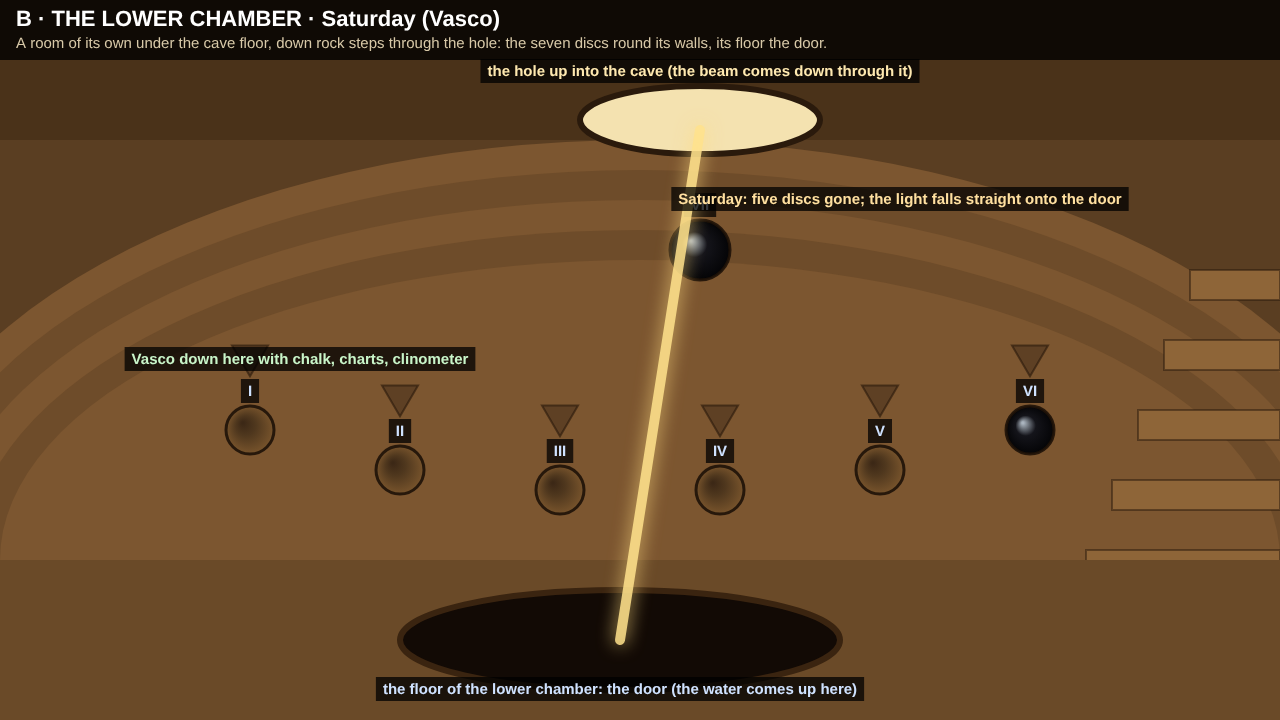
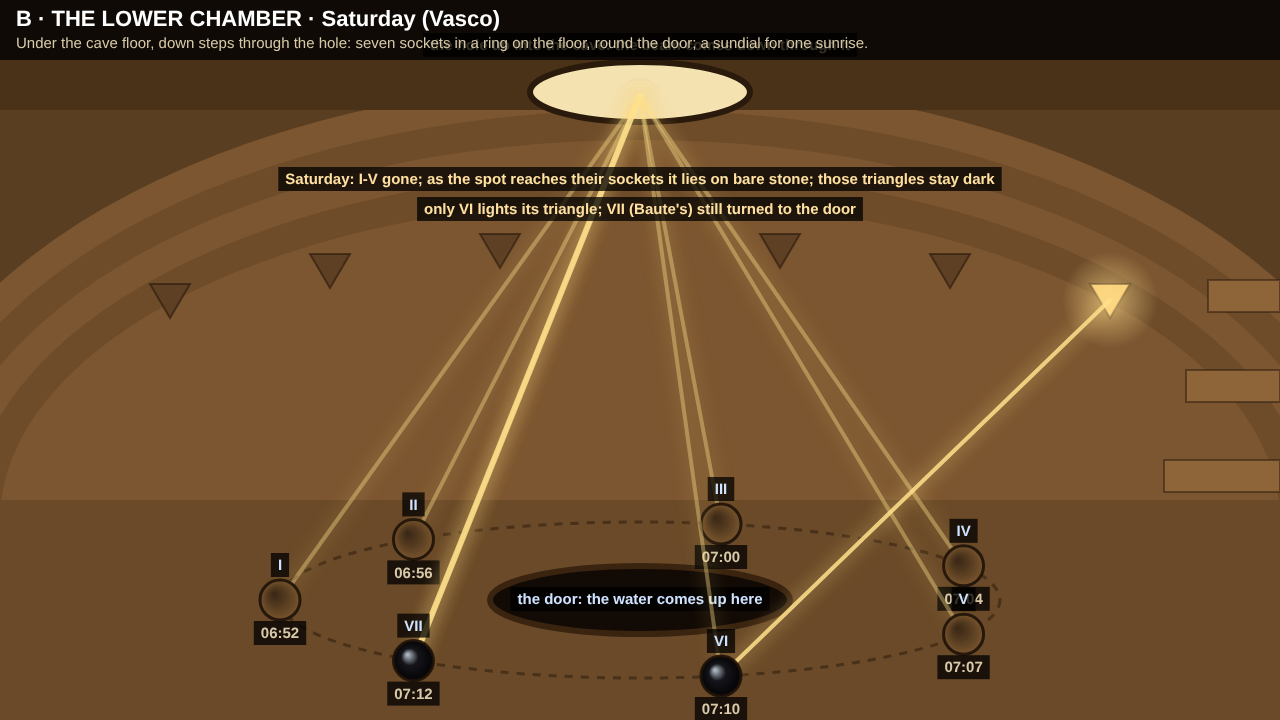
Sequel: Cave 6 layout: the discs in a ring on the lower chamber's floor, each lit in turn (the user's corrections)
Claude-Session: https://claude.ai/code/session_016HTeTMdkPGeAf3vSMzZ5ZE

diff --git a/sequel/art/review/cave6_redesign/mock.html b/sequel/art/review/cave6_redesign/mock.html
@@ -58,42 +58,50 @@ function cave(g) {
   title(g, 'A · CAVE 6 · the room', 'One small opening. No ring of sockets in the roof, no ladder. The discs are in the chamber below the hole.');
 }
 
-// ------------------------------------------------------------ B/C: the lower chamber (the user: "it would probably need an
-// extra room - the lower part of the cave, where the disks are"): a low round room under the cave floor, reached down rock
-// steps through the hole; the seven sockets round its walls at arm's height, each by a small triangle; its floor is the door
-const S = [[250, 430], [400, 470], [560, 490], [720, 490], [880, 470], [1030, 430], [700, 250]];   // I-VI round the wall; VII high, under the hole
+// ------------------------------------------------------------ B/C: the lower chamber (the user: "an extra room - the
+// lower part of the cave, where the disks are"; "the light should be hitting the disks individually, otherwise taking
+// one out breaks the seal completely"; "they should be placed in a circle at the bottom of the hole"): a low round room
+// under the cave floor, down rock steps through the hole. On its floor, round the door, a ring of seven sockets. As the
+// sun rises the spot of light from the hole travels round the ring like a sundial's shadow and meets each disc in turn;
+// I-VI each throw it up onto their own small triangle on the chamber wall; VII, last, up through the hole onto the great
+// triangle. A disc missing: at that moment the light falls on bare stone, and that word of the sentence goes unread.
+const C = [640, 600], RX = 360, RY = 78;
+const ANG = [180, 129, 77, 26, -26, -77, -129];   // I-VII evenly round the ring (degrees, 0 = right, 90 = far side), the light's order
+const S = ANG.map(a => [C[0] + RX * Math.cos(a * Math.PI / 180), C[1] - RY * Math.sin(a * Math.PI / 180)]);
+const TRI = [[170, 300], [330, 270], [500, 250], [780, 250], [950, 270], [1110, 300]];   // the small triangles on the wall
 function lower(g, phase) {
   g.fillStyle = '#5a3e22'; g.fillRect(0, 0, 1280, 720);
-  // the low curved back wall and the ceiling, with the hole up in it (the light comes down through it from the cave above)
-  for (let i = 0; i < 5; i++) { g.fillStyle = i % 2 ? '#6e4c2a' : '#7c5630'; g.beginPath(); g.ellipse(640, 560, 760 - i * 30, 420 - i * 30, 0, Math.PI, 0); g.fill(); }
-  poly(g, [[0, 0], [1280, 0], [1280, 140], [0, 140]], '#4a3219');
-  g.save(); g.fillStyle = '#f4e2b0'; g.beginPath(); g.ellipse(700, 120, 120, 34, 0, 0, 7); g.fill(); g.strokeStyle = '#2a1a0c'; g.lineWidth = 6; g.stroke(); g.restore();
-  label(g, 700, 72, 'the hole up into the cave (the beam comes down through it)');
-  // the rock steps up to the hole, on the right (no ladder)
-  for (let i = 0; i < 6; i++) poly(g, [[1060 + i * 26, 620 - i * 70], [1280, 620 - i * 70], [1280, 650 - i * 70], [1060 + i * 26, 650 - i * 70]], '#8e6538', 'rgba(40,24,10,0.5)', 2);
-  label(g, 1170, 660, 'steps cut in the rock, up to the hole', { fg: '#c9f5c9' });
-  // the floor, and the door in it
-  poly(g, [[0, 560], [1280, 560], [1280, 720], [0, 720]], '#6a4a28');
-  g.save(); g.fillStyle = '#120a05'; g.beginPath(); g.ellipse(620, 640, 220, 50, 0, 0, 7); g.fill(); g.strokeStyle = '#3a2410'; g.lineWidth = 6; g.stroke(); g.restore();
-  label(g, 620, 690, 'the floor of the lower chamber: the door (the water comes up here)', { fg: '#cfe2ff' });
-  // the small triangles, one above each socket (I-VI); VII high on the wall under the hole
-  const names = ['I', 'II', 'III', 'IV', 'V', 'VI', 'VII'];
-  S.forEach(([x, y], i) => { if (i < 6) tri(g, x, y - 70, 18, '#5e4024', phase === 'lit'); });
-  S.forEach(([x, y], i) => disc(g, x, y, i === 6 ? 30 : 24, phase === 'sat' ? i >= 5 : true, names[i]));
+  for (let i = 0; i < 5; i++) { g.fillStyle = i % 2 ? '#6e4c2a' : '#7c5630'; g.beginPath(); g.ellipse(640, 520, 760 - i * 30, 440 - i * 30, 0, Math.PI, 0); g.fill(); }
+  poly(g, [[0, 0], [1280, 0], [1280, 110], [0, 110]], '#4a3219');
+  g.save(); g.fillStyle = '#f4e2b0'; g.beginPath(); g.ellipse(640, 92, 110, 30, 0, 0, 7); g.fill(); g.strokeStyle = '#2a1a0c'; g.lineWidth = 6; g.stroke(); g.restore();
+  label(g, 640, 46, 'the hole up into the cave: the beam comes down through it');
+  for (let i = 0; i < 5; i++) poly(g, [[1120 + i * 22, 640 - i * 90], [1280, 640 - i * 90], [1280, 672 - i * 90], [1120 + i * 22, 672 - i * 90]], '#8e6538', 'rgba(40,24,10,0.5)', 2);
+  label(g, 1180, 700, 'steps up to the hole', { fg: '#c9f5c9' });
+  poly(g, [[0, 500], [1280, 500], [1280, 720], [0, 720]], '#6a4a28');
+  // the door in the middle of the floor, the ring of sockets round it
+  g.save(); g.fillStyle = '#120a05'; g.beginPath(); g.ellipse(C[0], C[1], 150, 34, 0, 0, 7); g.fill(); g.strokeStyle = '#3a2410'; g.lineWidth = 6; g.stroke();
+  g.strokeStyle = 'rgba(40,24,10,0.5)'; g.lineWidth = 3; g.setLineDash([8, 8]); g.beginPath(); g.ellipse(C[0], C[1], RX, RY, 0, 0, 7); g.stroke(); g.restore();
+  label(g, C[0], C[1], 'the door: the water comes up here', { fg: '#cfe2ff' });
+  const names = ['I', 'II', 'III', 'IV', 'V', 'VI', 'VII'], T = ['06:52', '06:56', '07:00', '07:04', '07:07', '07:10', '07:12'];
+  TRI.forEach(([x, y], i) => tri(g, x, y, 20, '#5e4024', phase === 'lit' || (phase === 'sat' && i === 5)));
+  S.forEach(([x, y], i) => {
+    const set = phase === 'sat' ? i >= 5 : true;
+    g.save(); g.globalAlpha = 0.45; beam(g, [[640, 96], [x, y]], 4); g.restore();   // the beam, at that moment
+    if (set) beam(g, i < 6 ? [[x, y], TRI[i]] : [[x, y], [640, 96]], i < 6 ? 4 : 6);
+    disc(g, x, y, 20, set, names[i]);
+    label(g, x, y + 34, T[i], { fg: '#d8c9a8' });
+  });
   if (phase === 'sat') {
-    beam(g, [[700, 130], [620, 640]], 10);
-    label(g, 900, 200, 'Saturday: five discs gone; the light falls straight onto the door', { fg: '#ffe0a0' });
-    label(g, 300, 360, 'Vasco down here with chalk, charts, clinometer', { fg: '#c9f5c9' });
+    label(g, 640, 180, 'Saturday: I-V gone; as the spot reaches their sockets it lies on bare stone; those triangles stay dark', { fg: '#ffe0a0' });
+    label(g, 640, 210, 'only VI lights its triangle; VII (Baute\'s) still turned to the door', { fg: '#ffe0a0' });
   } else {
-    beam(g, [[700, 130], S[0], S[1], S[2], S[3], S[4], S[5], S[6], [700, 130]], 8);
-    label(g, 640, 330, 'down through the hole to I; I → II → III → IV → V → VI, a small triangle lit at each', { fg: '#ffe0a0' });
-    label(g, 900, 250, 'VII, last: back up through the hole onto the great triangle', { fg: '#ffe0a0' });
-    g.save(); g.fillStyle = 'rgba(20,40,46,0.72)'; g.fillRect(0, 520, 1050, 200); g.restore();
-    label(g, 520, 560, 'Monday: Alan down here; the water rises from the door; every socket in arm\'s reach', { fg: '#bfe6ff' });
-    label(g, 700, 30, 'Vasco kneeling at the hole above, calling the sockets', { fg: '#c9f5c9' });
+    label(g, 640, 180, 'as the sun rises the spot goes round the ring: each disc in turn throws it onto its own small triangle', { fg: '#ffe0a0' });
+    label(g, 640, 210, 'VII, last (07:12): up through the hole onto the great triangle', { fg: '#ffe0a0' });
+    g.save(); g.fillStyle = 'rgba(20,40,46,0.6)'; g.beginPath(); g.ellipse(C[0], C[1], RX + 60, RY + 40, 0, 0, 7); g.fill(); g.restore();
+    label(g, 640, 690, 'Monday: Alan kneels in the ring as the water comes up out of the door; Vasco at the hole above, calling', { fg: '#bfe6ff' });
   }
   title(g, phase === 'sat' ? 'B · THE LOWER CHAMBER · Saturday (Vasco)' : 'C · THE LOWER CHAMBER · Monday (Alan)',
-    'A room of its own under the cave floor, down rock steps through the hole: the seven discs round its walls, its floor the door.');
+    'Under the cave floor, down steps through the hole: seven sockets in a ring on the floor, round the door; a sundial for one sunrise.');
 }
 cave(document.getElementById('a').getContext('2d'));
 lower(document.getElementById('b').getContext('2d'), 'sat');
